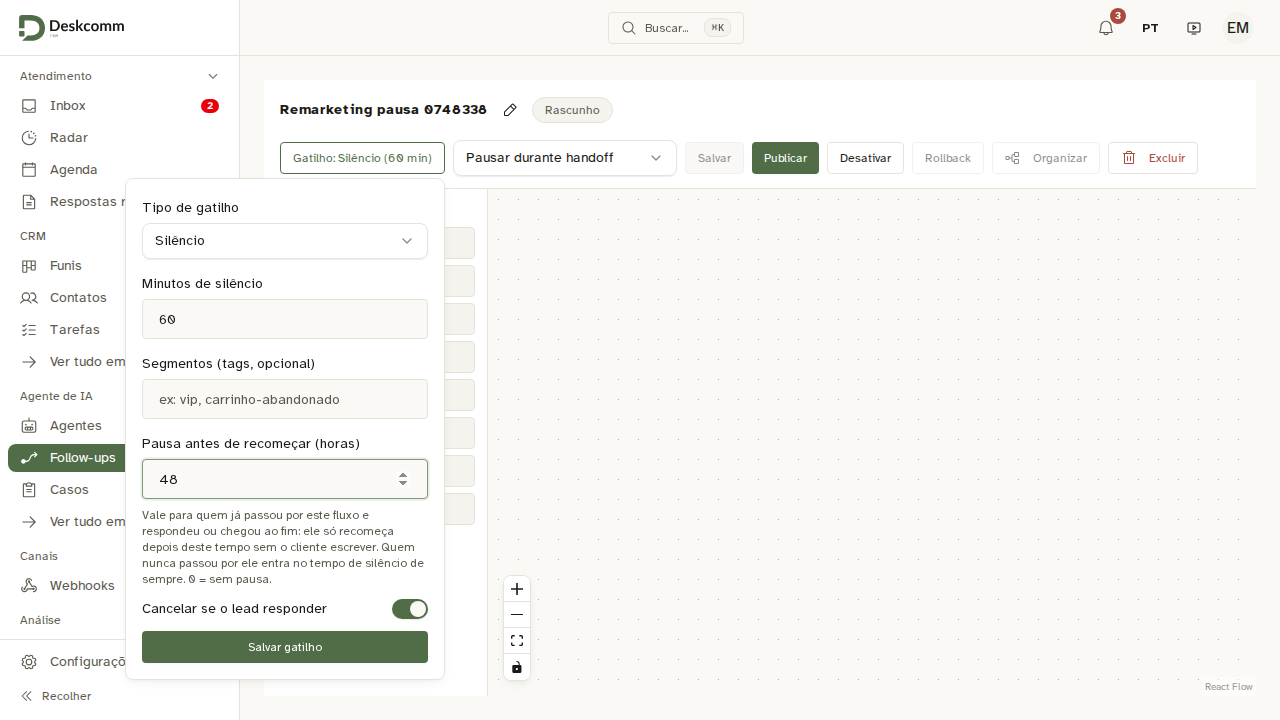
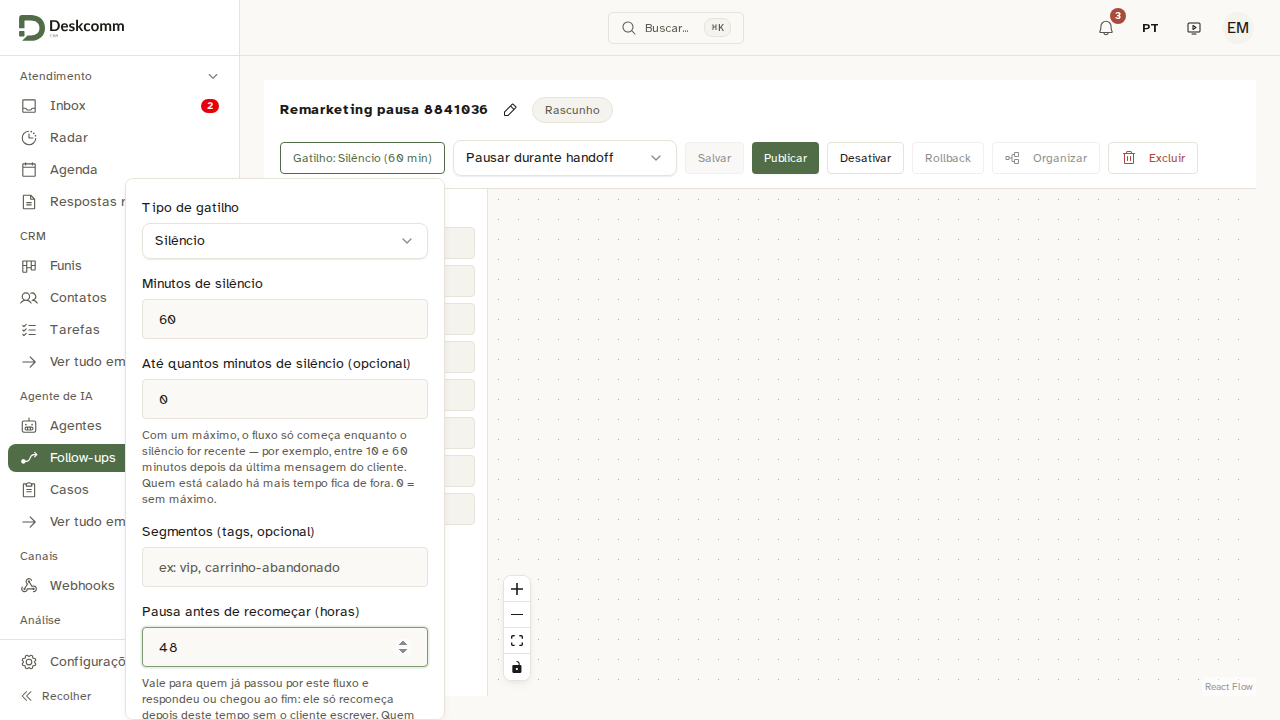
fix(followup): o painel do gatilho rola dentro da altura disponível — o «Salvar gatilho» saía da tela
Com o teto do silêncio, o painel do gatilho de silêncio passou da altura de uma
tela de 720 px e o botão de salvar ficou abaixo da dobra, sem rolagem: a spec
de tela reprovou os dois casos (clique fora da viewport). Mesma régua do
SelectContent: altura disponível do Radix + overflow-y-auto. A spec agora
também afirma que, com 10 e 60, nenhum campo fica marcado como inválido.

diff --git a/app/app/ai/followups/[id]/_components/TriggerConfigControl.tsx b/app/app/ai/followups/[id]/_components/TriggerConfigControl.tsx
@@ -355,7 +355,14 @@ export function TriggerConfigControl({ flowId, triggerConfig }: Props) {
           {summaryLabel(triggerConfig, etapaSalva ?? null, t)}
         </Button>
       </PopoverTrigger>
-      <PopoverContent className="w-80" align="end" data-testid="trigger-config-panel">
+      {/* O painel cresce com o gatilho de silêncio (mínimo, teto, segmentos, pausa):
+          numa tela de 720 px o «Salvar gatilho» ficava abaixo da dobra, sem rolagem.
+          Mesma régua do `SelectContent` (altura disponível do Radix + rolagem). */}
+      <PopoverContent
+        className="w-80 max-h-(--radix-popover-content-available-height) overflow-y-auto"
+        align="end"
+        data-testid="trigger-config-panel"
+      >
         <div className="space-y-3">
           <div className="space-y-2">
             <Label htmlFor="trigger-kind">{t("Tipo de gatilho")}</Label>

diff --git a/tests/e2e/pausa-de-reentrada.spec.ts b/tests/e2e/pausa-de-reentrada.spec.ts
@@ -98,6 +98,10 @@ test.describe("Pausa de reentrada do gatilho de silêncio", () => {
     await expect(painel.getByTestId("trigger-config-save")).toBeDisabled();
 
     await teto.fill("60");
+    // Com 10 e 60 nada está inválido: a borda de erro some dos dois campos.
+    await expect(teto).toHaveAttribute("aria-invalid", "false");
+    await expect(painel.locator("#trigger-threshold")).toHaveAttribute("aria-invalid", "false");
+    await expect(painel.getByTestId("trigger-config-save")).toBeEnabled();
     await captura(page, "silencio-01-teto-de-60");
     await painel.getByTestId("trigger-config-save").click();
     await expect(botao).toHaveText(/10–60 min/, { timeout: 30_000 });
